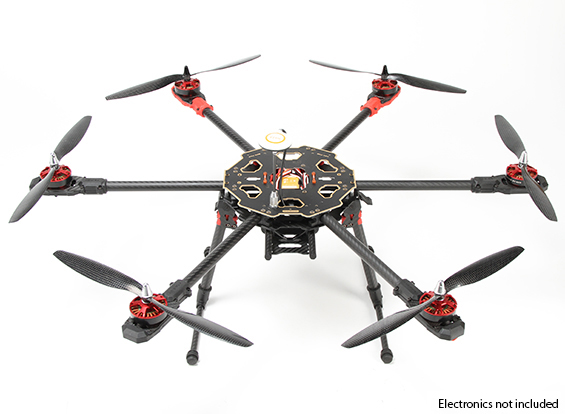
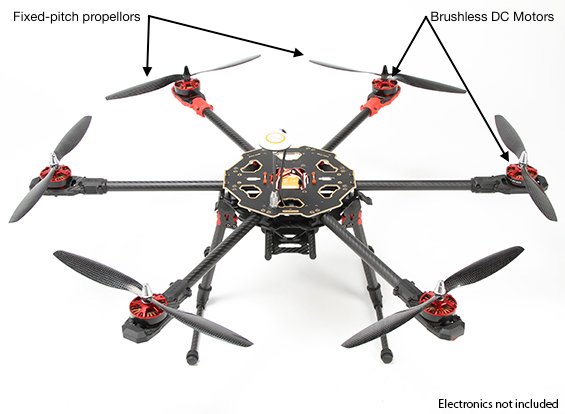
aerial platforms section updates.

diff --git a/report/background.tex b/report/background.tex
@@ -175,34 +175,93 @@ A typical transmitter will pass a modulated signal to the DAC which will take th
 While it is currently not possible to directly transmit from the ADC, future technological advances may make this possible. An ADC and DAC having the ability to convert the signal without the need for up or downconversion would allow for the direct connection of the ADC or DAC to the antenna. This would allow for wide band reception capability and tolerance to varying input power levels.\cite{soprano_sdr}
 
 \section{Aerial Platforms}
-The inspiration behind this MQP was to discover how much information could be gleaned from the wireless spectrum when observed from the air. To facilitate this, three main mobile methods of elevating the sensory unit were considered: kites, fixed-wing aircraft, and multicopters, each of which will be described in detail below.
+The inspiration behind this MQP was to discover how much information could be gathered from the wireless spectrum when observed from the air. To facilitate this, three main mobile methods of elevating the sensory unit were considered: kites, fixed-wing aircraft, and multicopters, each of which will be described in detail below.
 
 \subsection{Kites}
-A kite is a passive structure tethered to the ground that stays airborne by catching wind. There are many different styles of kite, including parafoil, rokkaku, delta, and sled, but they all rely on the same principle to fly.\cite{kite_iqp} Kites have near unlimited flight time and high payload capacity when operated in favorable conditions, but in exchange they sacrifice control, reliability, and maneuverability.\par
-\textbf{I know how useless this seems rn but probably want to go into some details about differences in kite types}\\
-\textbf{Also maybe a picture?}\\
-Since kites are powered by the natural wind in the atmosphere, they do not require any power to stay aloft. Depending on the style of kite however, they do require specific conditions to fly. Almost all kites need at least 2-3 mph of wind to get up into the air, and delta and rokkaku are limited to a maximum of 12-16 mph.\cite{kite_iqp} Parafoils can fly in wind up to 20 mph, but can be unstable\cite{kite_iqp}.\par
-The only control a user has over a kite in flight is changing its height by letting out or reeling in more of the tether cord. Different styles of kite have different flying angles, which impacts the amount of weight they can carry. Some kites, such as the rokkaku and delta styles, can be modified during assembly to change their angle of flight, where higher angles produce more lift. While parafoils can inherently carry more weight, they also have a low flying angle, which can be problematic in some scenarios. The preparation for flight involves assembling the kite, normally by inserting cross-bars, and unreeling the tether in an open space that allows the kite to take off.\par
-Kites are, by necessity, constructed of very light materials and cannot support much extra weight in light wind situations. Again, the style of kite affects the carrying capacity: deltas can carry a moderate amount of weight, but need higher winds to stay aloft. Parafoil and rokkaku kites can carry more weight, with 10 lbs being on the low end. All things considered, kites have great flight time and payload capacity, but they are susceptible to poor weather and have little to no maneuverability or user control over movement.
+A kite is a passive structure tethered to the ground that stays airborne by catching wind.\cite{kite_book} There are many different styles of kite, including parafoil, rokkaku, delta, and sled, but they all rely on the same principle to fly.\cite{kite_book}\cite{kite_iqp} Kites have near unlimited flight time and high payload capacity when operated in favorable conditions, but in exchange they sacrifice control, reliability, and maneuverability.\par
+Since kites are powered by the natural wind in the atmosphere, they do not require any power to stay aloft. However, depending on the style of kite, they do require specific conditions to fly. Almost all kites need at least 2-3 mph of wind to get up into the air, and delta and rokkaku are limited to a maximum of 12-16 mph.\cite{kite_iqp} Parafoils can fly in wind up to 20 mph, but can be unstable.\par
+The only control a user has over a kite in flight is changing its height by letting out or reeling in more of the tether cord. Different styles of kite have different flying angles, which impacts the amount of weight they can carry. Some kites, such as the rokkaku and delta (example in Figure \ref{fig:delta_kite}) styles, can be modified during assembly to change their angle of flight, where higher angles produce more lift. While parafoils can inherently carry more weight, they also have a low flying angle, which can be problematic in some scenarios. The preparation for flight involves assembling the kite, normally by inserting cross-bars, and unreeling the tether in an open space that allows the kite to take off.\par
+\begin{figure}[ht]
+\centering
+\includegraphics[width=0.70\textwidth]{img/delta-kite.jpg}
+\caption{A delta style kite. Delta style kites can be configured to fly at high angles, allowing them to be flown in laterally constrained locations.}
+\label{fig:delta_kite}
+\end{figure}\par
+Kites are, by necessity, constructed of very light materials and cannot support much extra weight in light wind situations. Again, the style of kite affects the carrying capacity: deltas can carry a moderate amount of weight, but need higher winds to stay aloft. Parafoil and rokkaku kites can carry more weight, with 10 lbs being on the low end.\par
+One application of kites that concerns the carrying capacity is kite aerial photography, which consists of a camera mounted to a kite as a low-cost way to take aerial pictures. Varying flying conditions force photographers to mount cameras to many different types of kites with differing angles of flight, payload capacity, and stability. Advanced photographers also utilize mounting rigs to stabilize and sometimes rotate the cameras in flight.\cite{kite_iqp}\par
+The pros and cons of a kite as a platform for the SDR system are enumerated in Table \ref{table:kite_pc}.
+\begin{table}[ht]
+\centering
+\caption{Kite Pros and Cons}
+\label{table:kite_pc}
+\begin{tabular}{l|l}
+  Pros & Cons \\ \hline
+  cost & maneuverability \\
+  flight time & deployment time \\
+  payload capacity & \\
+\end{tabular}
+\end{table}\par
 
 \subsection{Fixed-wing Aircraft}
-A fixed-wing aircraft is a rigid structure with one or more rotors oriented forward that gains lift from the flow of air over its wings. An aircraft’s movement is controlled by servos onboard that move flaps to change the surface of the aircraft, in turn changing the dynamics of flight and causing the plane to respond. They are very efficient in terms of the ratio of flight time to power used because the lift comes from the shape of the wings, not the speed of the motor. Since the lift comes from the wings, fixed-wing aircraft have a moderate flying time and can carry a moderate amount of weight, but the plane’s motion is very linear so its maneuverability is limited.\par
-\textbf{A picture of fixed wing aircraft maybe?} \\
-The flight time of most battery powered remote-control fixed-wing aircraft is around half an hour assuming some aerobatics. In a surveying role, with the plane flying low circles, the flight time would likely increase slightly. There are also gasoline powered aircraft with small engines onboard to power the main propeller. Gasoline has a very high energy density, so it’s possible to fly for multiple hours with a gasoline powered aircraft.\par
+A fixed-wing aircraft is a rigid structure with one or more rotors oriented forward that gains lift from the flow of air over its wings.\cite{airplane_book} A diagram showing this lift mechanism can be found in Figure \ref{fig:airfoil_lift}. This section will focus on radio controlled (RC) aircraft since they are the type being considered for use in this MQP. An RC aircraft’s movement is typically controlled by servos onboard that move flaps to change the surface of the aircraft, in turn changing the dynamics of flight and causing the plane to respond. RC aircraft are very efficient in terms of flight time to power used because the lift comes from the shape of the wings, not the speed of the motor.\cite{airplane_site} Since the lift comes from the wings, fixed-wing aircraft have a moderate flying time and can carry a moderate amount of weight, but the plane’s motion is very linear so its maneuverability is limited.\par
+\begin{figure}[ht]
+\centering
+\includegraphics[width=0.70\textwidth]{img/airfoil_lift.png}
+\caption{Airfoil lift generation. As air flows past the airfoil, it is forced downward, in return forcing the aircraft upward.}
+\label{fig:airfoil_lift}
+\end{figure}\par
+The flight time of most battery powered RC fixed-wing aircraft is around half an hour assuming some aerobatics.\cite{airplane_book} In a surveying role, with the plane flying low circles, the flight time would likely increase slightly. There are also gasoline powered aircraft with small engines onboard to power the main propeller. Gasoline has a very high energy density, so it’s possible to fly for multiple hours with a gasoline powered aircraft.\par
 Fixed-wing aircraft have a fairly lenient payload capacity. One thing to consider about adding payloads to fixed-wing aircraft is that since the aircraft’s flight is so heavily impacted by the body shape, any payload will need to be incorporated into the body of the aircraft to minimize airflow disturbance. To get more lift, and thus carry more weight, the plane simply needs to fly faster to force more air over the wings. This has drawbacks however, as spinning the propeller faster will drain the power source faster and decrease maneuverability.\par
-A fixed-wing aircraft is able to cover large distances flying laterally, but it is not able to stop mid-flight and hover in place. Its turning radius is often quite large, and it must not drop below a certain speed to remain airborne. While fixed-wing aircraft are mobile, they are not very agile. Most fixed-wing aircraft require a long flat runway to takeoff and land on, limiting the number of locations in which they could reasonably launch. In addition, fixed-wing aircraft are much larger and are commonly disassembled for transport. All things considered, fixed-wing aircraft have a lot of conditions that inhibit their usefulness even though they have fairly good flight time and payload capacity.
+Fixed-wing RC aircraft have been used in the past for similar tasks. In one example, a group of students at WPI developed a search and rescue platform using a fixed-wing RC aircraft.\cite{airplane_iqp} An example of a fixed-wing RC aircraft is shown in Figure \ref{fig:fixed_wing}.
+\begin{figure}[ht]
+\centering
+\includegraphics[width=0.70\textwidth]{img/fixed-wing.jpg}
+\caption{A fixed-wing RC aircraft}
+\label{fig:fixed_wing}
+\end{figure}\par
+A fixed-wing aircraft is able to cover large distances flying laterally, but it is not able to stop mid-flight and hover in place.\cite{airplane_book} Its turning radius is often quite large, and it must not drop below a certain speed to remain airborne. While fixed-wing aircraft are mobile, they are not very agile. Most fixed-wing aircraft require a long flat runway to takeoff and land on, limiting the number of locations in which they could reasonably launch. In addition, fixed-wing aircraft are much larger and are commonly disassembled for transport.\par
+The pros and cons of a fixed-wing aircraft as a platform for the SDR system are enumerated in Table \ref{table:wing_pc}.
+\begin{table}[ht]
+\centering
+\caption{Fixed-Wing Aircraft Pros and Cons}
+\label{table:wing_pc}
+\begin{tabular}{l|l}
+  Pros & Cons \\ \hline
+  flight time & maneuverability \\
+  payload capacity & cost \\
+   & deployment time \\
+\end{tabular}
+\end{table}\par
 
 \subsection{Multicopters}
-A multicopter, sometimes also called a drone, is a flying device with two or more upward oriented rotors. A typical multicopter structure will have an even number of fixed-pitch propellers (often 4, 6, or 8), powered by electric motors placed equidistant from the center of mass. To have full control over the movement of the quadcopter, at least 3 rotors are needed. By controlling the speed at which the rotors spin, the multicopter can be controlled and flown. The least mechanically complex of the three devices investigated here, multicopters rely solely on software control of the rotors for lift and control. The principles behind multicopter flight lead them to be highly maneuverable, but at the cost of flight time and payload capacity.
+A multicopter, sometimes also called a drone, is a flying device with two or more upward oriented rotors. A typical multicopter structure will have an even number of fixed-pitch propellers (often 4, 6, or 8), powered by electric motors placed equidistant from the center of mass.\cite{multicopter_background} To have full control over the movement of the quadcopter, at least 3 rotors are needed.\cite{multicopter_dynamics_2} The least mechanically complex of the three devices investigated here, multicopters rely solely on software control of the rotors for lift and control. A diagram of the forces acting upon the multicopter can be found in Figure \ref{fig:quad_diagram}, and an example picture of a multicopter with 6 rotors is included in Figure \ref{fig:multicopter_hex}.\par
+\begin{figure}[ht]
+\centering
+\includegraphics[width=0.70\textwidth]{img/quad_force_diagram.jpg}
+\caption{Quadcopter force diagram. Motors and propellors alternate in direction of rotation so that the drone is stable around the vertical axis. The torque generated by each propellor is cancelled by the propellor opposite it.\cite{multicopter_dynamics_3}}
+\label{fig:quad_diagram}
+\end{figure}\par
 \begin{figure}[ht]
 \centering
 \includegraphics[width=0.70\textwidth]{img/hexacopter.jpg}
-\caption{A multicopter with 6 rotors}
+\caption{A multicopter with 6 rotors. The brushless DC motors allow for very high speeds and a high degree of control.}
 \label{fig:multicopter_hex}
 \end{figure}\par
-The primary concern when using a multicopter is the flight time. Most commercial multirotors quote flight times in the 10-20 minute range with the best performing drones topping out around 30 minutes (cite). This is because the power required to spin the electric motors fast enough to get lift can be immense, drgawing up to 60 amps on takeoff. Ascending from a stationary position draws much more energy than hovering or lateral flying, so multiple takeoffs and landings in one flight will hamper the battery even more. The high current draw of the electric motors necessitates the use of Lithium Polymer (LiPo) batteries that can discharge large amounts of power very quickly. LiPo batteries have another benefit for use in multicopters and that is their low weight.\par
+Multicopters use fixed-pitch propellors to correlate rotor speed with force produced. Lift can be controlled by uniformly increasing or decreasing rotor speed across all rotors. To effect a roll or pitch, one side's rotors are spun up and the other side's are spun down so that the net lift remains the same but the craft tilts to the side with less thrust. Multicopters also have the unique ability to yaw in place by spinning alternating rotors faster and slower. Since the rotors alternate in direction of rotation, spinning one set faster creates an imbalance of torque, which makes the whole platform rotate in place.\cite{multicopter_dynamics_2}\par
+Multicopters are thus highly maneuverable, but at the cost of flight time and payload capacity. The primary concern when using a multicopter is the flight time. Most commercial multirotors quote flight times in the 10-20 minute range with the best performing drones topping out around 30 minutes.\cite{multicopter_comparison} This is because the power required to spin the electric motors fast enough to get lift can be immense, drawing up to 60 amps on takeoff.\cite{multicopter_long_range_mqp} Ascending from a stationary position draws much more energy than hovering or lateral flying, so multiple takeoffs and landings in one flight will hamper the battery even more. The high current draw of the electric motors necessitates the use of Lithium Polymer (LiPo) batteries that can discharge large amounts of power very quickly. LiPo batteries have another benefit for use in multicopters and that is their low weight.\par
 Weight is a very important factor in the operation of a multicopter because the amount of weight to be lifted directly corresponds to the speed the motors must be driven at to achieve lift. Multicopters in general have low payload capacities because any extra weight equates to more power that must be provided by the rotors. In effect, the more weight the drone is carrying, the less flight time it will have. This correlation forces a choice to be made over whether to prioritize flight time or amount of payload supported.\par
 The most advantageous aspect of multicopters is their maneuverability. The nature of their control means it is possible to stop and start, hover in place, rotate in place, and quickly change directions and altitudes. In particular, the ability to stop at a point and rotate at a fixed rate is especially unique. To rotate in place, the multicopter increases the speed of all rotors spinning one direction and decreases speed of the other rotors such that the overall lift stays constant, but the torque changes, forcing the whole platform to yaw.\cite{multicopter_dynamics} Deployment of a multicopter is very fast as well: there is nothing that needs assembly prior to flight, and there is no need to find a long open space to takeoff. All that is required procedurally  is powering on the device and setting it on the ground, as multicopters are capable of vertical takeoff and landing (VTOL). The high maneuverability and ease of deployment make for an easy user experience, since control of a drone (with good software) is simple and very responsive. All things considered, the multicopter is a platform that has very good maneuverability, but must sacrifice payload capacity and flight time.
+\begin{table}[ht]
+\centering
+\caption{Multicopter Pros and Cons}
+\label{table:multi_pc}
+\begin{tabular}{l|l}
+  Pros & Cons \\ \hline
+  maneuverability & flight time \\
+  deployment time & cost \\
+   & payload capacity \\
+\end{tabular}
+\end{table}\par
 
 \section{Conclusion}
 In this section, background information was provided on the topics of spectrum utilization, spectrum sensing, and localization. In addition, software defined radios and flight platforms were also discussed.  By providing this information, the design decisions made are put into context, and the implementation will be simpler to follow.

diff --git a/report/masdr.tex b/report/masdr.tex
@@ -154,6 +154,7 @@
 	
 	Professor Yehia Massoud, Head of Department	
 	
+	This report represents work of WPI undergraduate students submitted to the faculty as evidence of a degree requirement. WPI routinely publishes these reports on its web site without editorial or peer review. For more information about the projects program at WPI, see http://www.wpi.edu/Academics/Projects.
 	
 	% end of titlepage
 	\newpage
